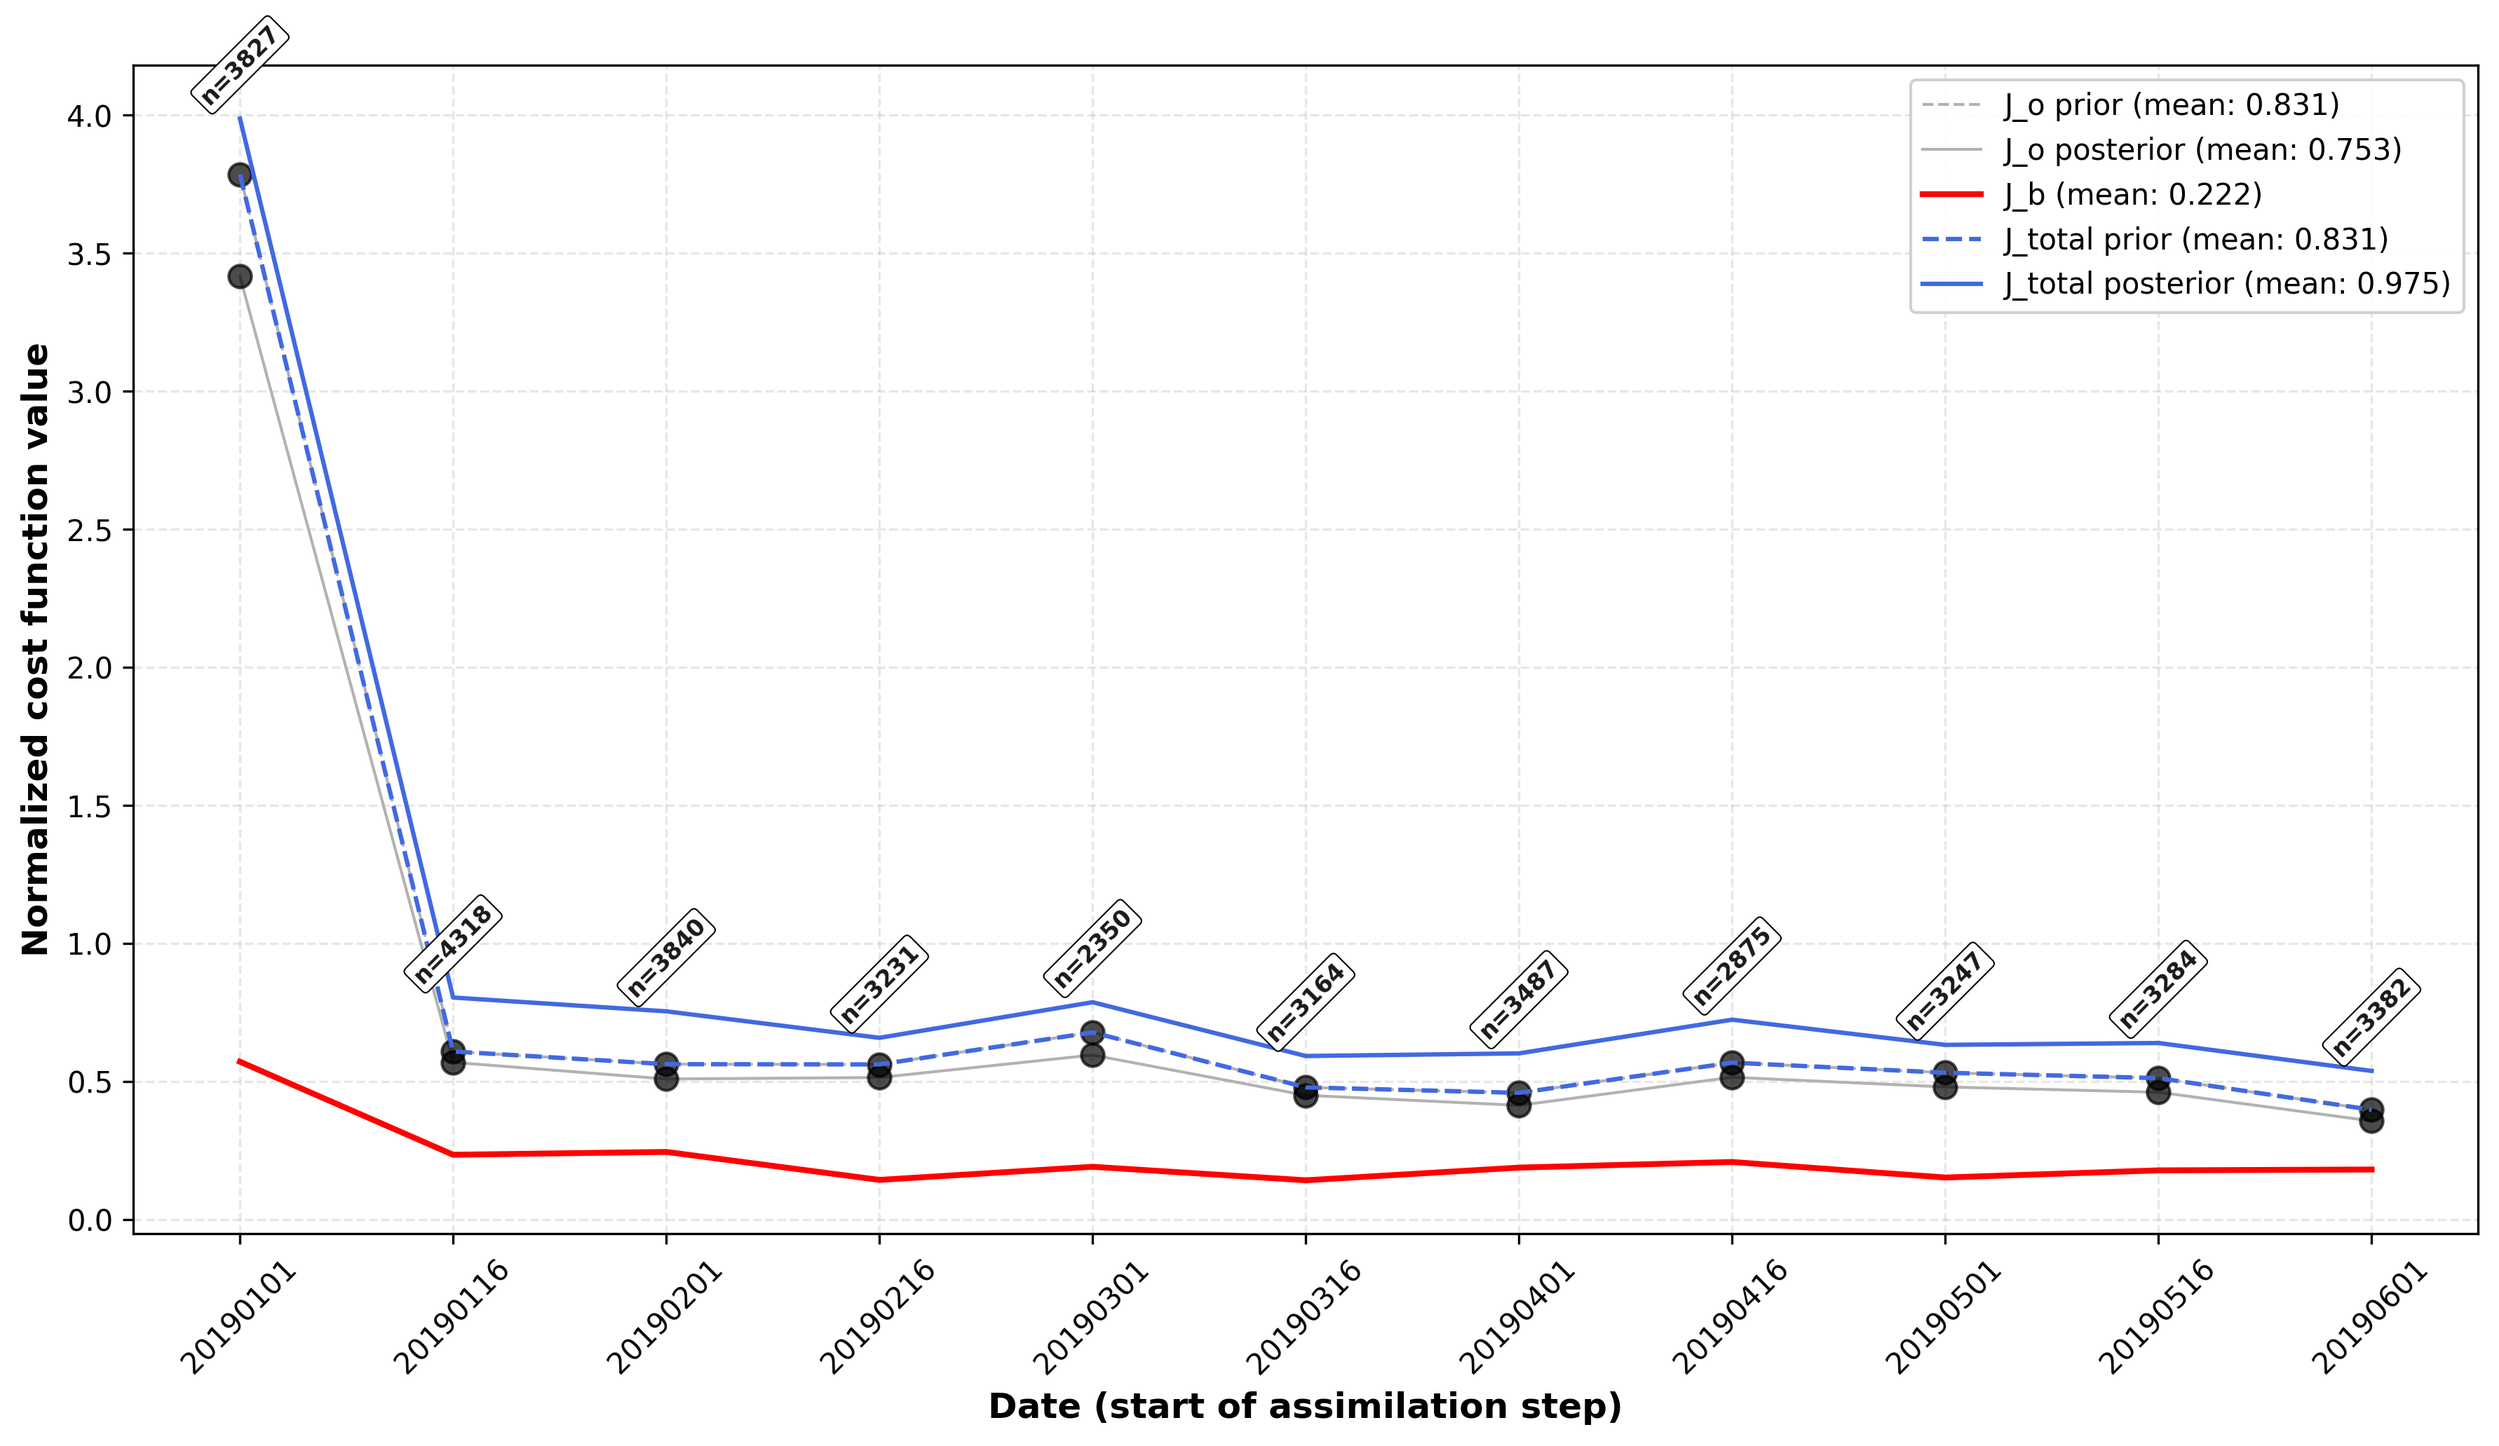
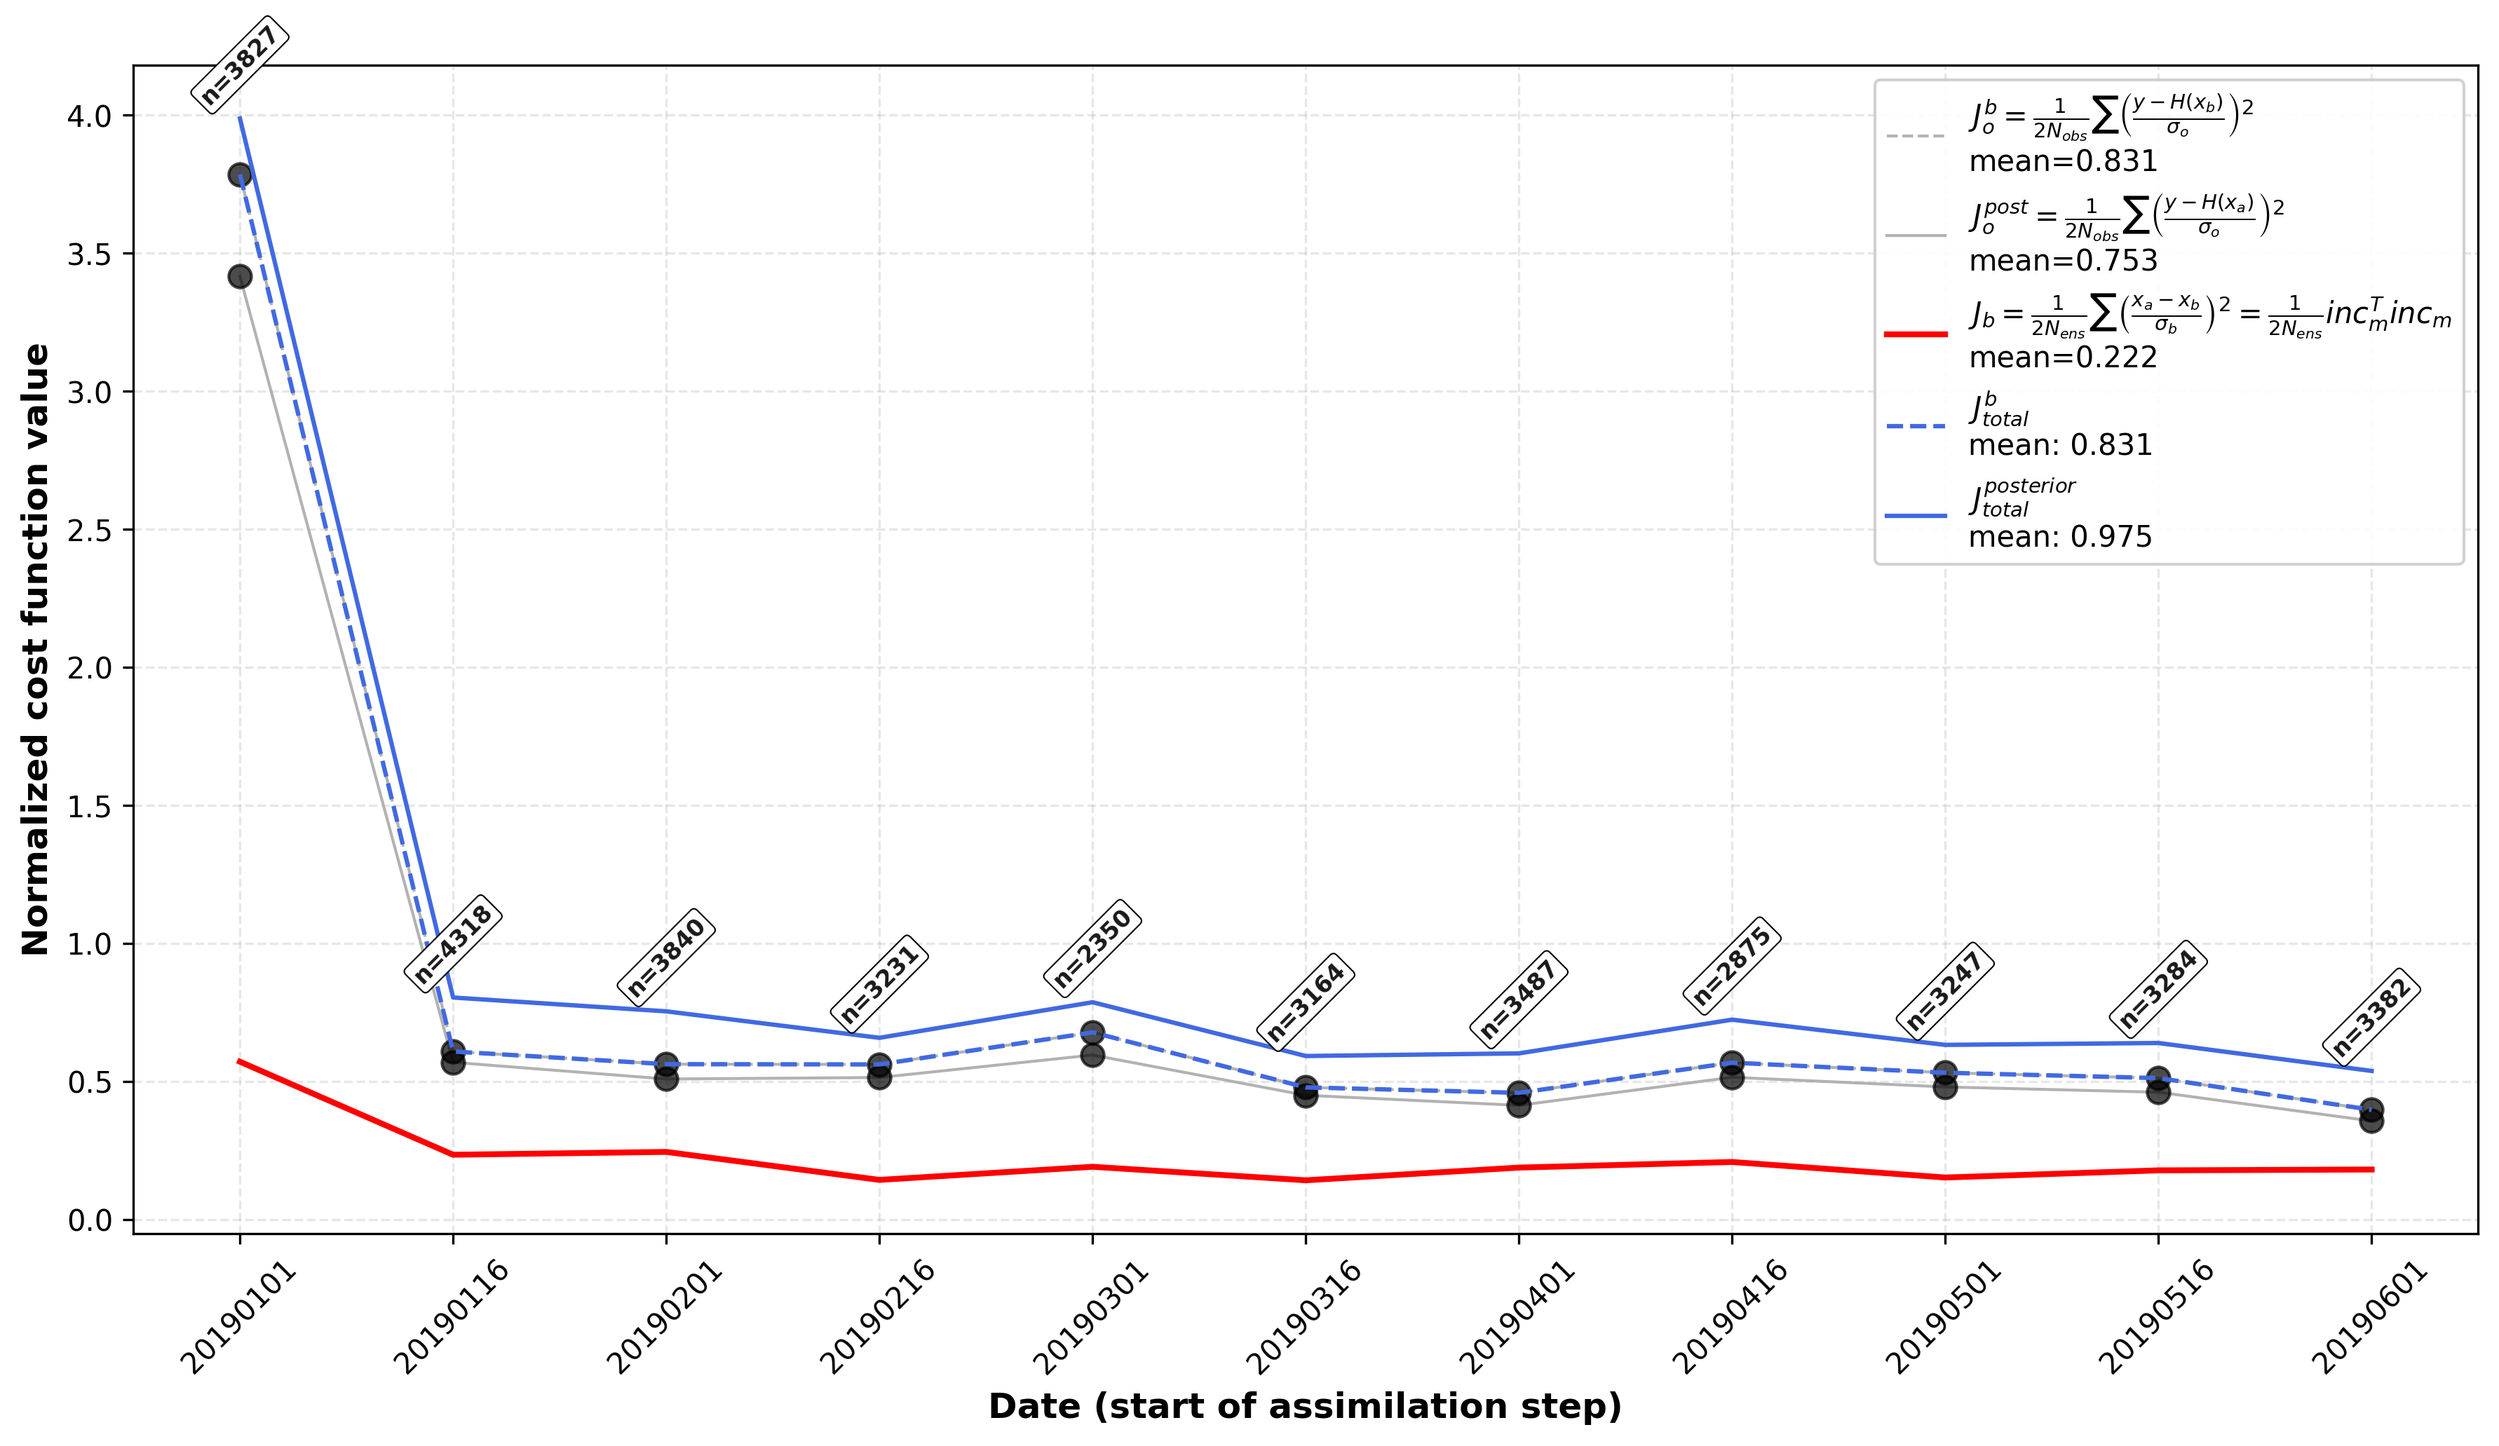
Small updates to the cost function formula

Changed region(s): [[0.7475, 0.062, 0.9966, 0.2482], [0.7475, 0.2792, 0.8721, 0.4033]]

diff --git a/cost_function/Compute_and_save_cost_f.py b/cost_function/Compute_and_save_cost_f.py
@@ -19,7 +19,7 @@ OUTPUT_PATH.mkdir(parents=True, exist_ok=True)
 # NX = 100
 # NT = 11  # Number of assimilation steps
 
-flux_variance = 0.5 # only if there are no correlations between flux regions, otherwise need to define the P matrix
+# flux_variance = 0.5 # only if there are no correlations between flux regions, otherwise need to define the P matrix
 
 def get_unique_dates_per_step(NT):
 
@@ -104,7 +104,7 @@ def compute_jb_from_inc_m(inc_m, xtm=None):
 
     if inc_m is None:
         return np.nan
-    return 0.5 * np.dot(inc_m, inc_m) / flux_variance
+    return 0.5 * np.dot(inc_m, inc_m)
 
 def compute_jo(obs, mod_prior, mod_posterior, obs_err, R_matrix=None):
     """
